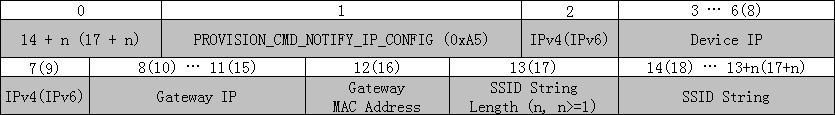
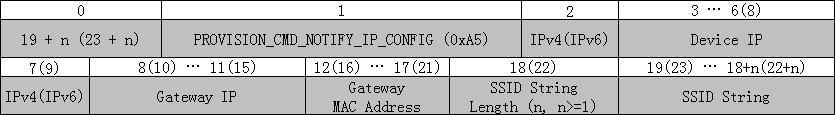
Update setup protocol

diff --git a/docs/listening_mode_setup_protocol.md b/docs/listening_mode_setup_protocol.md
@@ -390,6 +390,8 @@ Followed by notifying the new state via **State Characteristic** :
 
 **Password String** : If the security type is of open, the length of password string should be set to `0` and the password string can be omitted. Otherwise, central device must ensure that the length of the password string is more than 7 characters.
 
+**Note** : The password string is not encrypted.
+
 ### Connect to AP
 
 Command stream via Command Characteristic :
@@ -400,24 +402,32 @@ Followed by notifying the new state via **State Characteristic** :
 
 ![image](images/connecting.png)
 
-Then the Duo exits from the Listening Mode and try connecting to the AP. If the Duo successfully connect to AP, the new state will ne notified via **State Characteristic** :
+Then the Duo exits from the Listening Mode and try connecting to the AP. 
 
-![image](images/connected.png)
+- If the Duo successfully connect to AP, the new state will ne notified via **State Characteristic** :
 
-Followed by notifying the IP configurations via Command Characteristic :
+	![image](images/connected.png)
 
-![image](images/ip_config.png)
+	Followed by notifying the IP configurations via Command Characteristic :
 
-While if the Duo fails to connect to AP, it then notify the new state via **State Characteristic** :
+	![image](images/ip_config.png)
 
-![image](images/connect_failed.png)
+- While if the Duo fails to connect to AP, it then notify the new state via **State Characteristic** :
 
+	![image](images/connect_failed.png)
 
+**IPv4(IPv6)** : Indicates that whether the following IP address is IPv4 or IPv6. If it is equal to `0x04`, then the following IP address is 4-bytes with little endian, if `0x06`, then the following IP address is 6-bytes with little endian.
+
+**SSID String** : It is terminated without NULL.
+
+After central sending the `PROVISION_CMD_CONNECT_AP` command and the Duo notifying the state `PROVISION_STA_CONNECTING`, the Duo exits from the Listening Mode and try  connecting to the AP. If failed, the Duo will notify the state `PROVISION_STA_CONNECT_FAILED` followed by disconnecting from central device and  will enter the Listening mode again. If success, the Duo will notify the state `PROVISION_STA_CONNECTED` followed by notifying the IP configurations via the Command Characteristic and then perform a soft-reset.
 
 
 ## <span id="usb-serial">USB Serial</span>
 
+Connect the Duo to PC and follow the [Windows Driver Installation Guide](windows_driver_installation_guide.md) to install the driver if needed. 
 
+Then jump to the guidance : Configure WiFi Credential -- [Using Serial Terminal](https://github.com/redbear/Duo/blob/master/docs/out_of_box_experience.md#using-serial-terminal).
 
 
 ## <span id="references">References</span>
